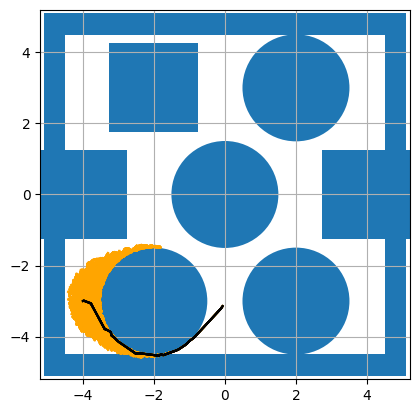
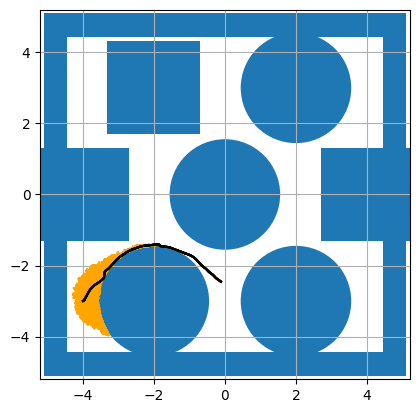
added json file

diff --git a/Turtlebot_A_star.py b/Turtlebot_A_star.py
@@ -56,7 +56,7 @@ start_node_x = -4
 start_node_y = -3
 initial_angle = 20
 goal_node_x = 0
-goal_node_y = -3
+goal_node_y = -2.5
 
 # # for testing for video 2
 # start_node_x = -4
@@ -74,7 +74,7 @@ radius_rigid_robot_burger = 0.105
 
 # radius_rigid_robot_burger = 0
 
-clearance = 0.4
+clearance = 0.45
 start_node_position = [start_node_x, start_node_y]
 goal_node_position = [goal_node_x, goal_node_y]
 
